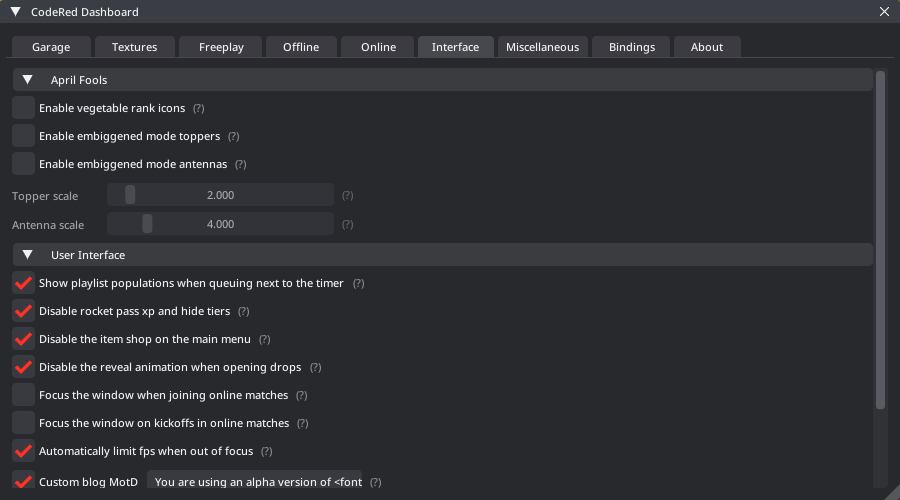
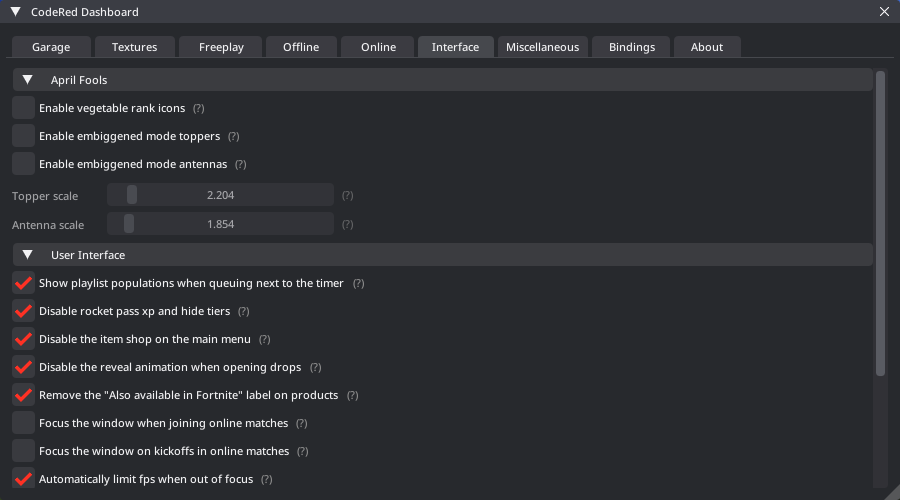
Initial Commit

diff --git a/changelog.html b/changelog.html
@@ -53,6 +53,7 @@
 		    <nav id="docs-nav" class="docs-nav navbar">
 			    <ul class="section-items list-unstyled nav flex-column pb-3">
                     <li class="nav-item section-title mt-3"><a class="nav-link scrollto" href="#section-3"><span class="theme-icon-holder me-2"><i class="fas fa-book"></i></span>Changelog (Beta)</a></li>
+                    <li class="nav-item"><a class="nav-link scrollto" href="#item-3-2-5">Version 2.2.6</a></li>
                     <li class="nav-item"><a class="nav-link scrollto" href="#item-3-2-5">Version 2.2.5</a></li>
                     <li class="nav-item"><a class="nav-link scrollto" href="#item-3-2-4">Version 2.2.4</a></li>
                     <li class="nav-item"><a class="nav-link scrollto" href="#item-3-2-3">Version 2.2.3</a></li>
@@ -226,6 +227,14 @@
 		    <div class="container">
                 <article class="docs-article" id="section-3">
                     <h1 class="docs-heading">Changelog (Beta)</h1>
+
+                        <section class="docs-section" id="item-3-2-6">
+                            <h2 class="section-heading">Version 2.2.6 (July 23rd 2024)</h2>
+                            <h5>- Added a new default style inspired by "whatyouhide"'s Gotham colorscheme for vim called "Gotham City (Dark Blue Green)".</h5>
+                            <h5>- Added a new command <code></code> which removes the "You can also use this item in Fortnite" popup on products.</h5>
+                            <h5>- Removed the ability to equip any of the Elon Musk items through CodeRed loadouts.</h5>
+                            <h5>- Updated internal SDK to the latest version of Rocket League.</h5>
+                        </section>
 
                         <section class="docs-section" id="item-3-2-5">
                             <h2 class="section-heading">Version 2.2.5 (July 19th 2024)</h2>

diff --git a/documentation.html b/documentation.html
@@ -988,6 +988,10 @@
                                         <th class="theme-bg-light"><b>garage_selected_team &lt0-1&gt</b></th>
                                         <td>The current selected team for your garage preset.</td>
                                     </tr>
+                                    <tr>
+                                        <th class="theme-bg-light"><b>garage_remove_fortnite &lt0-1&gt</b></th>
+                                        <td>Removes the "You can also use this item in Fortnite" popup on products.</td>
+                                    </tr>
                                 </tbody>
                             </table>
                         </div>
